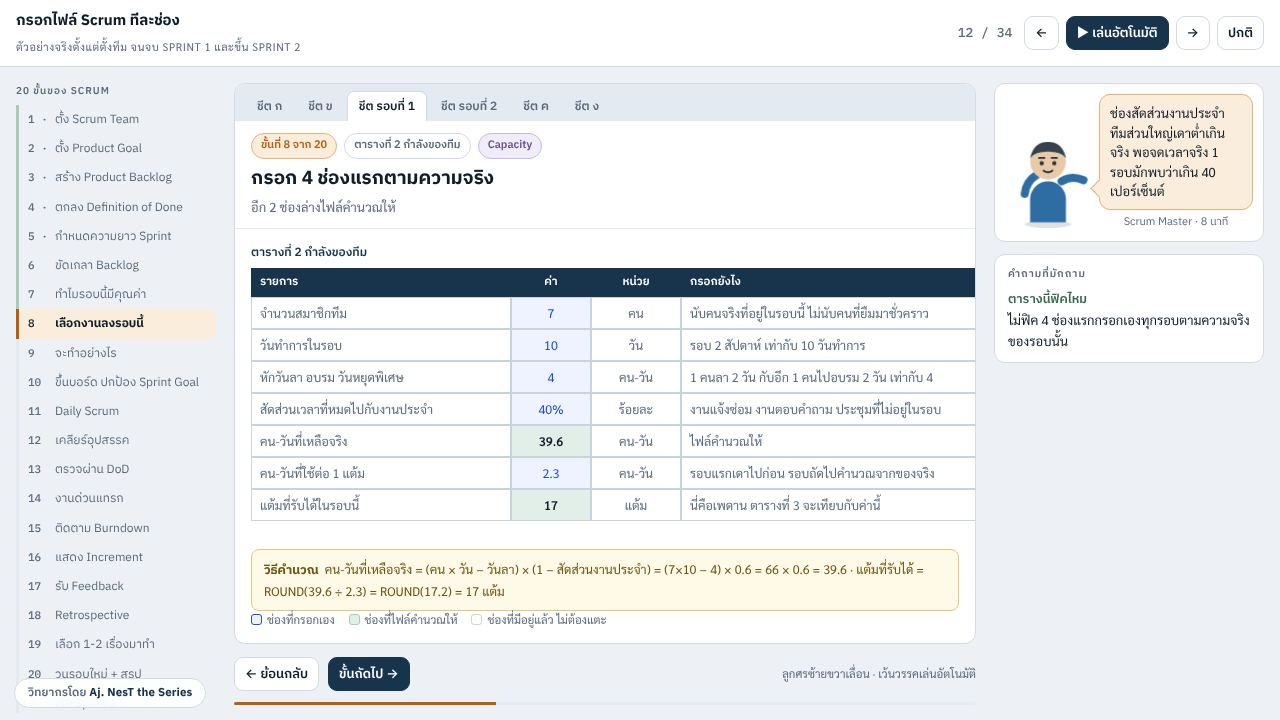
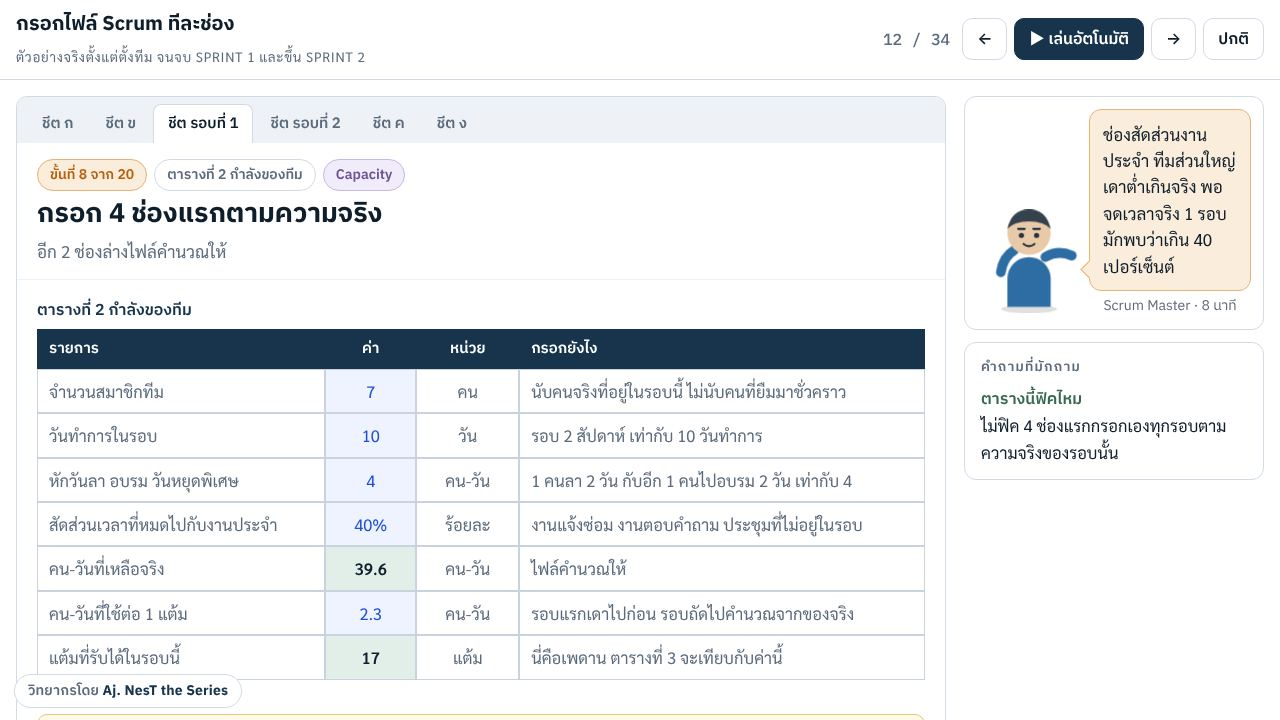
Workshop page: light theme only and larger type
- Remove the dark palette so the walkthrough always renders on white
- Scale up type across the page (body 18px, tables 16.5px, headings 27px)
  for projector use
- Wide text columns wrap instead of overflowing; side columns narrow
  below 1500px so no table scrolls sideways at 1366px
- Keep the last steps in the step list clear of the credit badge
- Refresh the hub thumbnail

Claude-Session: https://claude.ai/code/session_01WmXi5zEQEWVnoqoHPDetdj

Changed region(s): [[0.0, 0.0, 1.0, 1.0]]

diff --git a/workshop/scrum-workbook-walkthrough.html b/workshop/scrum-workbook-walkthrough.html
@@ -7,8 +7,8 @@
 
 <style>
 :root{
-  --paper:#EDF1F6; --card:#FFFFFF; --ink:#0F1E2B; --muted:#5B6B7C;
-  --line:#D2DAE4; --line-soft:#E4EAF1; --grid:#C8D3DF;
+  --paper:#FFFFFF; --card:#FFFFFF; --ink:#0F1E2B; --muted:#5B6B7C;
+  --line:#D2DAE4; --line-soft:#EEF2F6; --grid:#C8D3DF;
   --amber:#B85F0E; --amber-soft:#FBEDDC; --amber-line:#E8B277;
   --sage:#35694D; --sage-soft:#E2EFE8; --sage-line:#A6CBB6;
   --alert:#A72E22; --alert-soft:#FBE5E2;
@@ -19,33 +19,10 @@
   --f-display:"IBM Plex Sans Thai","Noto Sans Thai",system-ui,sans-serif;
   --f-body:"Sarabun","IBM Plex Sans Thai",system-ui,sans-serif;
   --f-num:"IBM Plex Mono",ui-monospace,monospace;
-}
-@media (prefers-color-scheme:dark){:root:not([data-theme="light"]){
-  --paper:#0C141C; --card:#13222F; --ink:#E7EEF5; --muted:#92A6BA;
-  --line:#243747; --line-soft:#1B2B3A; --grid:#2C4155;
-  --amber:#E9A355; --amber-soft:#2C1E11; --amber-line:#6B4620;
-  --sage:#7BBE9A; --sage-soft:#14271D; --sage-line:#2E5540;
-  --alert:#E98578; --alert-soft:#2C1613;
-  --navy:#9FC4E0; --blue:#86AEFF; --blue-soft:#15223B;
-  --term:#C3ACE8; --term-soft:#241C33; --term-line:#4A3A6B;
-  --skin:#C9A782; --shirt:#3E7FB8;
-  --calc-bg:#2A2314; --calc-line:#6B5A26; --calc-ink:#E8D49A;
-  color-scheme:dark;
-}}
-:root[data-theme="dark"]{
-  --paper:#0C141C; --card:#13222F; --ink:#E7EEF5; --muted:#92A6BA;
-  --line:#243747; --line-soft:#1B2B3A; --grid:#2C4155;
-  --amber:#E9A355; --amber-soft:#2C1E11; --amber-line:#6B4620;
-  --sage:#7BBE9A; --sage-soft:#14271D; --sage-line:#2E5540;
-  --alert:#E98578; --alert-soft:#2C1613;
-  --navy:#9FC4E0; --blue:#86AEFF; --blue-soft:#15223B;
-  --term:#C3ACE8; --term-soft:#241C33; --term-line:#4A3A6B;
-  --skin:#C9A782; --shirt:#3E7FB8;
-  --calc-bg:#2A2314; --calc-line:#6B5A26; --calc-ink:#E8D49A;
-  color-scheme:dark;
+  color-scheme:light;
 }
 *{box-sizing:border-box}
-body{background:var(--paper);color:var(--ink);font-family:var(--f-body);font-size:15px;
+body{background:var(--paper);color:var(--ink);font-family:var(--f-body);font-size:18px;
   line-height:1.6;margin:0}
 body::before{content:"";position:fixed;inset:0 0 auto;height:env(safe-area-inset-top,0px);
   z-index:40;background:var(--card)}
@@ -57,41 +34,42 @@ h1,h2,h3{font-family:var(--f-display);margin:0;text-wrap:balance}
   border-bottom:1px solid var(--line)}
 .bar-in{display:flex;align-items:center;gap:12px;flex-wrap:wrap;padding-block:9px;
   padding-left:max(16px,env(safe-area-inset-left,0px));
-  padding-right:max(16px,env(safe-area-inset-right,0px));max-width:1440px;margin:0 auto}
+  padding-right:max(16px,env(safe-area-inset-right,0px));max-width:1680px;margin:0 auto}
 .brand{margin-right:auto;min-width:0}
-.brand b{display:block;font-family:var(--f-display);font-size:15px;font-weight:700}
-.brand span{font-size:11px;color:var(--muted);letter-spacing:.05em;text-transform:uppercase}
+.brand b{display:block;font-family:var(--f-display);font-size:20px;font-weight:700}
+.brand span{font-size:13.5px;color:var(--muted);letter-spacing:.05em;text-transform:uppercase}
 .ctl{display:flex;align-items:center;gap:7px}
 button{font:inherit;cursor:pointer}
-.ico{border:1px solid var(--line);background:var(--card);color:var(--ink);height:34px;
-  min-width:34px;padding:0 10px;border-radius:9px;font-family:var(--f-display);
-  font-weight:600;font-size:13px;display:inline-grid;place-items:center}
+.ico{border:1px solid var(--line);background:var(--card);color:var(--ink);height:42px;
+  min-width:42px;padding:0 14px;border-radius:10px;font-family:var(--f-display);
+  font-weight:600;font-size:16px;display:inline-grid;place-items:center}
 .ico:hover{border-color:var(--amber);color:var(--amber)}
 .ico:focus-visible{outline:2px solid var(--amber);outline-offset:2px}
 .ico.go{background:var(--navy);color:var(--card);border-color:var(--navy)}
 .ico.go:hover{color:var(--card);opacity:.9}
 .ico:disabled{opacity:.4;cursor:default}
-.count{font-family:var(--f-num);font-size:13px;color:var(--muted);white-space:nowrap}
+.count{font-family:var(--f-num);font-size:16px;color:var(--muted);white-space:nowrap}
 
 /* ---------- โครง ---------- */
-.wrap{display:grid;grid-template-columns:200px minmax(0,1fr) 270px;gap:18px;
-  max-width:1440px;margin:0 auto;padding-block:16px 52px;
+.wrap{display:grid;grid-template-columns:250px minmax(0,1fr) 330px;gap:22px;
+  max-width:1680px;margin:0 auto;padding-block:16px 52px;
   padding-left:max(16px,env(safe-area-inset-left,0px));
   padding-right:max(16px,env(safe-area-inset-right,0px))}
-@media (max-width:1180px){.wrap{grid-template-columns:minmax(0,1fr) 250px}.rail{display:none}}
-@media (max-width:820px){.wrap{grid-template-columns:minmax(0,1fr)}}
+@media (max-width:1500px){.wrap{grid-template-columns:220px minmax(0,1fr) 290px;gap:18px}}
+@media (max-width:1280px){.wrap{grid-template-columns:minmax(0,1fr) 300px}.rail{display:none}}
+@media (max-width:900px){.wrap{grid-template-columns:minmax(0,1fr)}}
 
 /* ---------- รางขั้น ---------- */
-.rail{align-self:start;position:sticky;top:calc(env(safe-area-inset-top,0px) + 60px);
-  max-height:calc(100vh - 90px);overflow:auto}
-.rail h2{font-size:10px;letter-spacing:.1em;text-transform:uppercase;color:var(--muted);
+.rail{align-self:start;position:sticky;top:calc(env(safe-area-inset-top,0px) + 76px);
+  max-height:calc(100vh - 96px);overflow:auto;padding-bottom:56px}
+.rail h2{font-size:13px;letter-spacing:.1em;text-transform:uppercase;color:var(--muted);
   font-weight:600;margin-bottom:6px}
 .rail ol{list-style:none;margin:0;padding:0}
 .rl{width:100%;text-align:left;background:transparent;border:0;border-left:3px solid var(--line-soft);
-  padding:5px 9px;border-radius:0 7px 7px 0;display:grid;grid-template-columns:20px 1fr;
+  padding:6px 10px;border-radius:0 8px 8px 0;display:grid;grid-template-columns:26px 1fr;
   gap:7px;align-items:baseline;color:var(--muted)}
-.rl i{font-family:var(--f-num);font-size:11px;font-style:normal}
-.rl span{font-family:var(--f-display);font-size:12px;overflow:hidden;text-overflow:ellipsis;
+.rl i{font-family:var(--f-num);font-size:14px;font-style:normal}
+.rl span{font-family:var(--f-display);font-size:15px;overflow:hidden;text-overflow:ellipsis;
   white-space:nowrap}
 .rl:hover{background:var(--line-soft);color:var(--ink)}
 .rl[aria-current="true"]{border-color:var(--amber);background:var(--amber-soft);color:var(--ink)}
@@ -102,26 +80,26 @@ button{font:inherit;cursor:pointer}
 /* ---------- กลาง  ชีตจำลอง ---------- */
 .stage{background:var(--card);border:1px solid var(--line);border-radius:11px;overflow:hidden}
 .tabs{display:flex;gap:2px;padding:7px 10px 0;background:var(--line-soft);overflow-x:auto}
-.tab{font-family:var(--f-display);font-size:12px;font-weight:600;color:var(--muted);
-  background:transparent;border:1px solid transparent;border-bottom:0;padding:5px 11px;
-  border-radius:7px 7px 0 0;white-space:nowrap}
+.tab{font-family:var(--f-display);font-size:15px;font-weight:600;color:var(--muted);
+  background:transparent;border:1px solid transparent;border-bottom:0;padding:7px 14px;
+  border-radius:8px 8px 0 0;white-space:nowrap}
 .tab.on{background:var(--card);color:var(--ink);border-color:var(--line)}
-.shead{padding:12px 16px 10px;border-bottom:1px solid var(--line-soft)}
+.shead{padding:16px 20px 14px;border-bottom:1px solid var(--line-soft)}
 .shead .meta{display:flex;gap:7px;flex-wrap:wrap;margin-bottom:5px}
-.pill{font-family:var(--f-display);font-size:11px;font-weight:600;padding:3px 9px;
+.pill{font-family:var(--f-display);font-size:14px;font-weight:600;padding:4px 12px;
   border-radius:999px;border:1px solid var(--line);color:var(--muted);white-space:nowrap}
 .pill.step{border-color:var(--amber-line);color:var(--amber);background:var(--amber-soft)}
 .pill.term{border-color:var(--term-line);color:var(--term);background:var(--term-soft)}
-.shead h1{font-size:19px;font-weight:700}
-.shead p{margin:3px 0 0;font-size:13px;color:var(--muted)}
-.gridwrap{padding:14px 16px 16px;overflow-x:auto}
-table{border-collapse:separate;border-spacing:0;font-size:12.5px;min-width:100%}
-caption{caption-side:top;text-align:left;font-family:var(--f-display);font-size:12px;
+.shead h1{font-size:27px;line-height:1.35;font-weight:700}
+.shead p{margin:5px 0 0;font-size:17px;color:var(--muted)}
+.gridwrap{padding:18px 20px 20px;overflow-x:auto}
+table{border-collapse:separate;border-spacing:0;font-size:16.5px;min-width:100%}
+caption{caption-side:top;text-align:left;font-family:var(--f-display);font-size:16px;
   font-weight:600;color:var(--navy);padding-bottom:6px}
 th{background:var(--navy);color:#fff;font-family:var(--f-display);font-weight:600;
-  font-size:11.5px;padding:6px 8px;text-align:left;border:1px solid var(--navy);
+  font-size:15px;padding:9px 11px;text-align:left;border:1px solid var(--navy);
   vertical-align:bottom;line-height:1.3}
-td{padding:5px 8px;border:1px solid var(--grid);vertical-align:top;background:var(--card)}
+td{padding:8px 11px;border:1px solid var(--grid);vertical-align:top;background:var(--card)}
 td.n,th.n{text-align:center}
 td.in{background:var(--blue-soft);color:var(--blue)}
 td.fx{color:var(--ink);font-weight:600;background:var(--sage-soft)}
@@ -135,20 +113,20 @@ tr.dim td{opacity:.45}
 @keyframes typein{from{opacity:0;clip-path:inset(0 100% 0 0)}to{opacity:1;clip-path:inset(0)}}
 @keyframes ringpulse{0%,100%{box-shadow:inset 0 0 0 2px var(--amber)}
   50%{box-shadow:inset 0 0 0 3px var(--amber),0 0 0 3px var(--amber-soft)}}
-.calcbox{margin:12px 16px 0;padding:9px 12px;border-radius:8px;background:var(--calc-bg);
-  border:1px solid var(--calc-line);color:var(--calc-ink);font-size:12.5px}
+.calcbox{margin:14px 20px 0;padding:12px 16px;border-radius:10px;background:var(--calc-bg);
+  border:1px solid var(--calc-line);color:var(--calc-ink);font-size:16px}
 .calcbox b{font-family:var(--f-display)}
-.legend{display:flex;gap:14px;flex-wrap:wrap;padding:0 16px 14px;font-size:11.5px;
+.legend{display:flex;gap:18px;flex-wrap:wrap;padding:4px 20px 16px;font-size:14.5px;
   color:var(--muted)}
-.legend i{display:inline-block;width:11px;height:11px;border-radius:3px;margin-right:5px;
+.legend i{display:inline-block;width:14px;height:14px;border-radius:3px;margin-right:5px;
   vertical-align:-1px;border:1px solid var(--grid)}
 .nav{display:flex;gap:9px;align-items:center;margin-top:13px;flex-wrap:wrap}
-.nav .hint{font-size:11.5px;color:var(--muted);margin-left:auto}
-.prog{height:3px;background:var(--line-soft);border-radius:2px;overflow:hidden;margin-top:11px}
+.nav .hint{font-size:14px;color:var(--muted);margin-left:auto}
+.prog{height:5px;background:var(--line-soft);border-radius:2px;overflow:hidden;margin-top:11px}
 .prog i{display:block;height:100%;background:var(--amber);transition:width .35s ease}
 .credit{position:fixed;z-index:25;left:max(14px,env(safe-area-inset-left,0px));
   bottom:max(12px,env(safe-area-inset-bottom,0px));font-family:var(--f-display);
-  font-size:11.5px;font-weight:600;letter-spacing:.01em;color:var(--muted);
+  font-size:14px;font-weight:600;letter-spacing:.01em;color:var(--muted);
   background:color-mix(in srgb,var(--card) 88%,transparent);border:1px solid var(--line);
   border-radius:999px;padding:5px 13px;backdrop-filter:blur(6px);pointer-events:none}
 .credit b{color:var(--navy);font-weight:700}
@@ -158,21 +136,21 @@ tr.dim td{opacity:.45}
 .side{display:flex;flex-direction:column;gap:12px;align-self:start;position:sticky;
   top:calc(env(safe-area-inset-top,0px) + 60px)}
 @media (max-width:820px){.side{position:static}}
-.toon{background:var(--card);border:1px solid var(--line);border-radius:11px;padding:10px;
-  display:grid;grid-template-columns:86px minmax(0,1fr);gap:8px;align-items:end}
-.toon svg{width:86px;height:104px;display:block}
+.toon{background:var(--card);border:1px solid var(--line);border-radius:12px;padding:12px;
+  display:grid;grid-template-columns:104px minmax(0,1fr);gap:8px;align-items:end}
+.toon svg{width:104px;height:126px;display:block}
 .bubble{position:relative;background:var(--amber-soft);border:1px solid var(--amber-line);
-  border-radius:11px;padding:8px 10px;font-size:13px;line-height:1.5;color:var(--ink)}
+  border-radius:12px;padding:11px 13px;font-size:17px;line-height:1.55;color:var(--ink)}
 .bubble::before{content:"";position:absolute;left:-7px;bottom:14px;width:12px;height:12px;
   background:var(--amber-soft);border-left:1px solid var(--amber-line);
   border-bottom:1px solid var(--amber-line);transform:rotate(45deg)}
-.who{font-size:11px;color:var(--muted);margin-top:4px;text-align:center;font-family:var(--f-display)}
-.card2{background:var(--card);border:1px solid var(--line);border-radius:11px;padding:11px 13px}
-.card2 h3{font-size:10.5px;letter-spacing:.09em;text-transform:uppercase;color:var(--muted);
+.who{font-size:14px;color:var(--muted);margin-top:4px;text-align:center;font-family:var(--f-display)}
+.card2{background:var(--card);border:1px solid var(--line);border-radius:12px;padding:14px 16px}
+.card2 h3{font-size:13.5px;letter-spacing:.09em;text-transform:uppercase;color:var(--muted);
   font-weight:600;margin-bottom:5px}
-.card2 p{margin:0 0 9px;font-size:13px}
+.card2 p{margin:0 0 12px;font-size:16.5px}
 .card2 p:last-child{margin-bottom:0}
-.card2 .q{font-family:var(--f-display);font-weight:600;font-size:12.5px;color:var(--sage);
+.card2 .q{font-family:var(--f-display);font-weight:600;font-size:16px;color:var(--sage);
   margin-bottom:2px}
 /* ตัวการ์ตูน */
 #arm{transform-origin:68px 56px;transition:transform .45s ease}
@@ -782,9 +760,9 @@ function chart(vals){
   let d=`M${x(0)},${y(vals[0])}`;
   for(let i=1;i<n;i++){ d+=` H${x(i)} V${y(vals[i])}`; }
   const dots=vals.map((v,i)=>`<circle cx="${x(i)}" cy="${y(v)}" r="3.5" fill="var(--amber)"/>`).join('');
-  const lbl=vals.map((v,i)=>`<text x="${x(i)}" y="${H-7}" text-anchor="middle" font-size="9"
+  const lbl=vals.map((v,i)=>`<text x="${x(i)}" y="${H-7}" text-anchor="middle" font-size="12"
       fill="var(--muted)" font-family="var(--f-num)">${i===0?'เริ่ม':i}</text>`).join('');
-  return `<svg viewBox="0 0 ${W} ${H}" style="width:100%;max-width:560px;height:auto;margin-bottom:10px">
+  return `<svg viewBox="0 0 ${W} ${H}" style="width:100%;max-width:760px;height:auto;margin-bottom:12px">
     <line x1="${P}" y1="${H-P}" x2="${W-P}" y2="${H-P}" stroke="var(--grid)" stroke-width="1.5"/>
     <line x1="${P}" y1="14" x2="${P}" y2="${H-P}" stroke="var(--grid)" stroke-width="1.5"/>
     <line x1="${x(0)}" y1="${y(vals[0])}" x2="${x(n-1)}" y2="${y(0)}" stroke="var(--muted)"
@@ -792,7 +770,7 @@ function chart(vals){
     <path d="${d}" fill="none" stroke="var(--amber)" stroke-width="3" stroke-linejoin="round"
       pathLength="1" style="stroke-dasharray:1;stroke-dashoffset:1;animation:draw 1.6s ease .2s forwards"/>
     ${dots}${lbl}
-    <text x="${P-6}" y="${y(max)+4}" text-anchor="end" font-size="9" fill="var(--muted)"
+    <text x="${P-6}" y="${y(max)+4}" text-anchor="end" font-size="12" fill="var(--muted)"
       font-family="var(--f-num)">${max}</text></svg>
   <style>@keyframes draw{to{stroke-dashoffset:0}}</style>`;
 }
@@ -820,7 +798,7 @@ function render(){
   }).join('')+'</tr>').join('');
 
   $('#grid').innerHTML = (s.chart?chart(s.chart):'') + `<table><caption>${esc(s.tb)}</caption>
-    <thead><tr>${s.cols.map((c,i)=>`<th style="min-width:${s.w[i]||120}px"
+    <thead><tr>${s.cols.map((c,i)=>`<th style="min-width:${(s.w[i]||120)<=120?(s.w[i]||120):Math.min(s.w[i],150)}px"
       class="${(s.w[i]||120)<=120?'n':''}">${esc(c)}</th>`).join('')}</tr></thead>
     <tbody>${body}</tbody></table>`;
 
